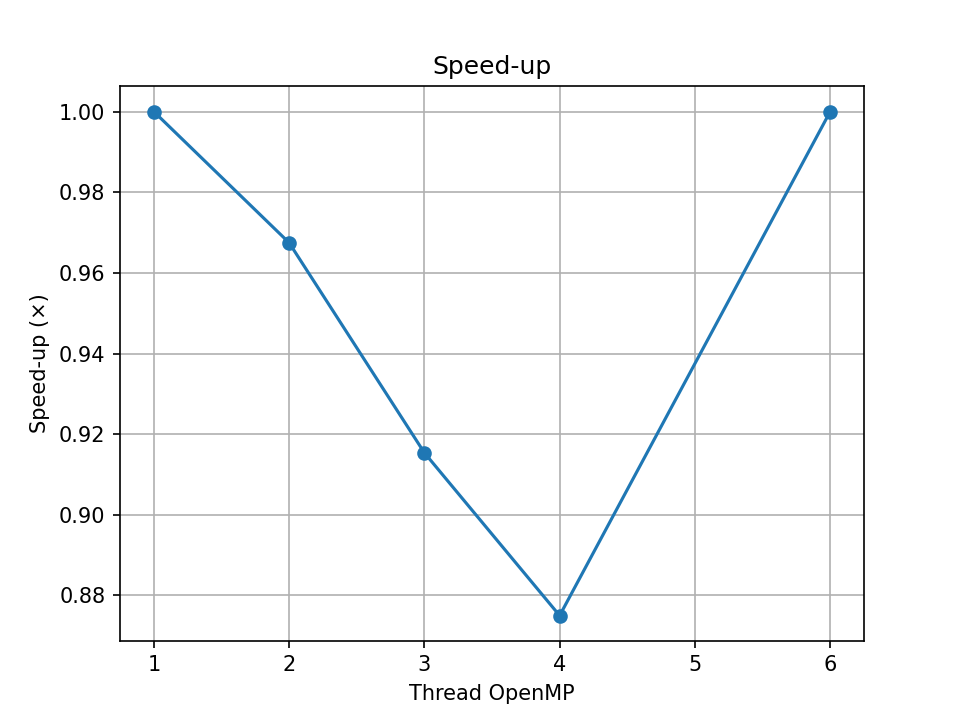
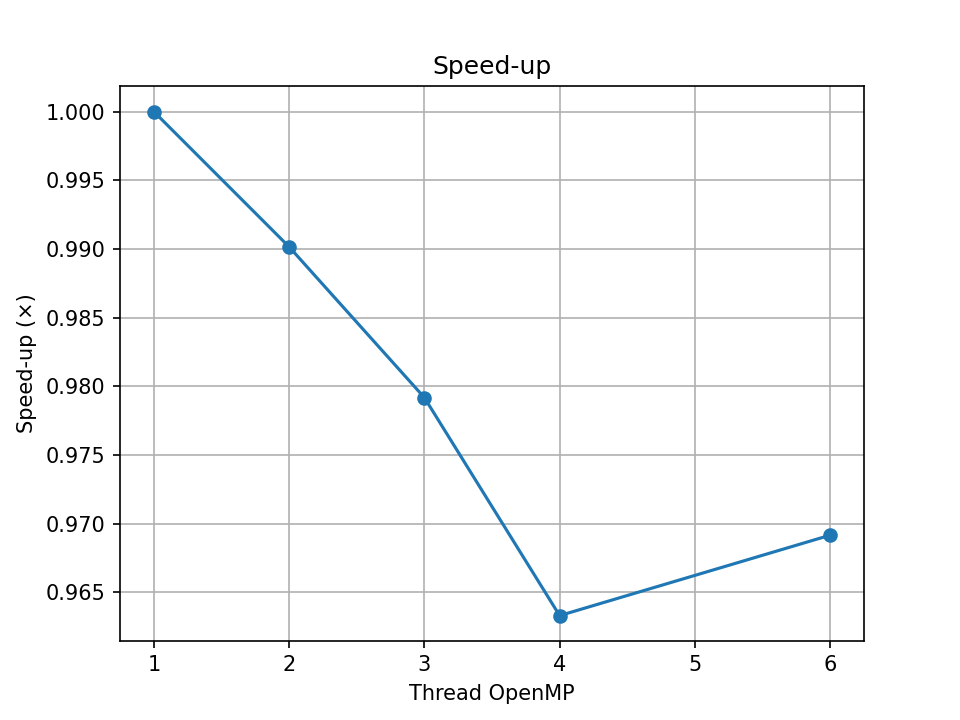
more execution to obtain average times

diff --git a/refactorized/main.c b/refactorized/main.c
@@ -1,5 +1,5 @@
 // main.c
-#define _POSIX_C_SOURCE 200809L   /* o 199309L, entrambe funzionano */
+#define _POSIX_C_SOURCE 200809L
 
 #define STB_IMAGE_IMPLEMENTATION
 #include "stb_image.h"
@@ -7,37 +7,39 @@
 #include "stb_image_write.h"
 
 #include <stdio.h>
-#include <time.h>                  // <-- aggiunto
+#include <stdlib.h>
+#include <time.h>
 #include "parallel_to_grayscale.h"
 
 int main(int argc, char *argv[]) {
     if (argc < 3) {
-        printf("Uso: %s input_image output_image.png\n", argv[0]);
+        fprintf(stderr, "Uso: %s <input_img> <output_img.png> [passaggi_kernel]\n", argv[0]);
         return 1;
     }
 
     int width, height, channels;
     unsigned char *img = stbi_load(argv[1], &width, &height, &channels, 0);
     if (!img) {
-        printf("Errore caricando l'immagine\n");
+        fprintf(stderr, "Errore caricando l'immagine\n");
         return 1;
     }
 
-    /* ---- misura solo il kernel OpenMP ----------------------------------- */
+    int passes = (argc >= 4) ? atoi(argv[3]) : 1;
+    if (passes < 1) passes = 1;
+
     struct timespec t0, t1;
     clock_gettime(CLOCK_MONOTONIC, &t0);
 
-    convert_to_grayscale(img, width, height, channels);
+    for (int p = 0; p < passes; ++p) {
+        convert_to_grayscale(img, width, height, channels);
+    }
 
     clock_gettime(CLOCK_MONOTONIC, &t1);
-    double secs = (t1.tv_sec - t0.tv_sec) +
-                  (t1.tv_nsec - t0.tv_nsec) / 1e9;
-    printf("Compute kernel: %.4f s\n", secs);
-    /* --------------------------------------------------------------------- */
+    double secs = (t1.tv_sec - t0.tv_sec) + (t1.tv_nsec - t0.tv_nsec) / 1e9;
+    printf("Compute kernel ×%d: %.4f s\n", passes, secs);
 
-    /* Salva PNG (facoltativo: puoi commentare per escludere l’I/O) */
     if (!stbi_write_png(argv[2], width, height, channels, img, width * channels)) {
-        printf("Errore nel salvataggio\n");
+        fprintf(stderr, "Errore nel salvataggio\n");
         stbi_image_free(img);
         return 1;
     }

diff --git a/refactorized/README.md b/refactorized/README.md
@@ -7,3 +7,8 @@ Per provare openmp:
 Per provare senza:
 
     gcc test_openmp.c -o test_openmp && ./test_openmp
+
+# Come testare greyscale
+
+./bench_and_plot_monolithic.sh IMG.jpg ["1 2 4 8"] [num_run] [passaggi_kernel]
+
